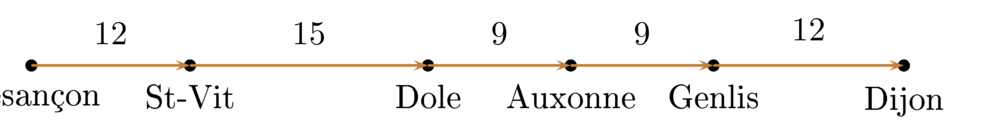
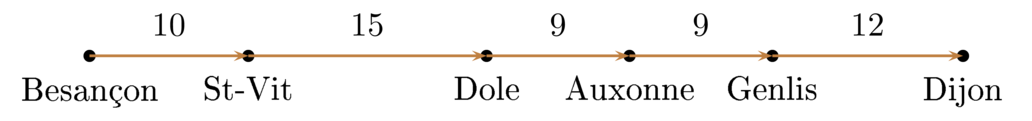
Fautes dans les éléments de réponse de l'activité vecteurs.

diff --git a/phystricksEDEYRhQ.py b/phystricksEDEYRhQ.py
@@ -11,6 +11,12 @@ def EDEYRhQ():
 
     BasicGeometricObjects.GraphOfASegment.mark_point=lambda x:x.center()
 
+    l1=10
+    l2=15
+    l3=9
+    l4=9
+    l5=12
+
     x=var('x')
     A=Point(-4,0)
     B=Point(6,0)
@@ -27,15 +33,15 @@ def EDEYRhQ():
     F.put_mark(0.2,-90,"Dijon",automatic_place=(pspict,"N"))
 
     AB=AffineVector(A,B)
-    AB.put_mark(0.2,90,"\( 12\)",automatic_place=(pspict,"S"))
+    AB.put_mark(0.2,90,"\( {}\)".format(B.x-A.x),automatic_place=(pspict,"S"))
     BC=AffineVector(B,C)
-    BC.put_mark(0.2,90,"\( 15\)",automatic_place=(pspict,"S"))
+    BC.put_mark(0.2,90,"\( {}\)".format(C.x-B.x),automatic_place=(pspict,"S"))
     CD=AffineVector(C,D)
-    CD.put_mark(0.2,90,"\( 9\)",automatic_place=(pspict,"S"))
+    CD.put_mark(0.2,90,"\( {}\)".format(D.x-C.x),automatic_place=(pspict,"S"))
     DE=AffineVector(D,E)
-    DE.put_mark(0.2,90,"\( 9\)",automatic_place=(pspict,"S"))
+    DE.put_mark(0.2,90,"\( {}\)".format(E.x-D.x),automatic_place=(pspict,"S"))
     EF=AffineVector(E,F)
-    EF.put_mark(0.2,90,"\( 12\)",automatic_place=(pspict,"S"))
+    EF.put_mark(0.2,90,"\( {}\)".format(F.x-E.x),automatic_place=(pspict,"S"))
 
     AB.parameters.color="brown"
     BC.parameters.color="brown"

diff --git a/0100_vecteurs.tex b/0100_vecteurs.tex
@@ -21,7 +21,7 @@
            \input{Fig_EDEYRhQ.pstricks}
         \end{center}
     \item
-        Ce serait 20h23, 20h35, 20h50, 20h59,21h08,21h20. Il suffit de garder les mêmes «intervalles».
+        Ce serait 20h23, 20h33, 20h48, 20h57,21h06,21h18. Il suffit de garder les mêmes «intervalles».
     \item
         Voici le dessin
         \begin{center}
